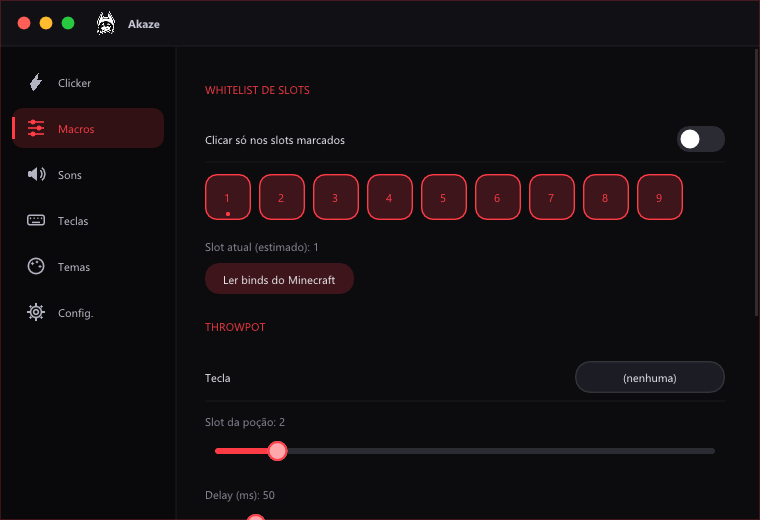
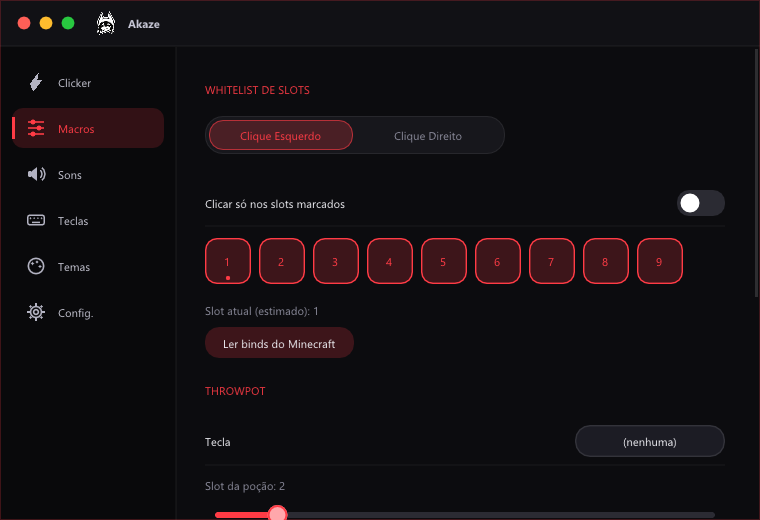
Site: Akaze 1.2.0 (separate left/right settings), new screenshots

diff --git a/index.html b/index.html
@@ -329,7 +329,7 @@
     <p class="lead" data-i18n="sc.lead">The real program, straight from the current version. Pick a page.</p>
     <div class="viewer">
       <div class="tabs" role="tablist" aria-label="Screenshots">
-        <button role="tab" aria-selected="true" data-shot="clicker" data-alt="Clicker page"><b data-i18n="sc.t1">Clicker</b><span data-i18n="sc.t1d">Left and right CPS, Auto Click, Jitter, Inventory and target window.</span></button>
+        <button role="tab" aria-selected="true" data-shot="clicker" data-alt="Clicker page"><b data-i18n="sc.t1">Clicker</b><span data-i18n="sc.t1d">Separate settings for left and right: CPS, Auto Click, Inventory, sound and target window. Jitter on the left.</span></button>
         <button role="tab" aria-selected="false" data-shot="macros" data-alt="Macros page"><b data-i18n="sc.t2">Macros</b><span data-i18n="sc.t2d">Slot whitelist, Throwpot and W-Tap.</span></button>
         <button role="tab" aria-selected="false" data-shot="sounds" data-alt="Sounds page"><b data-i18n="sc.t3">Sounds</b><span data-i18n="sc.t3d">Pick one of 12 click sounds and preview it.</span></button>
         <button role="tab" aria-selected="false" data-shot="binds" data-alt="Binds page"><b data-i18n="sc.t4">Binds</b><span data-i18n="sc.t4d">Set your arm keys and the Throwpot key.</span></button>
@@ -464,12 +464,12 @@
 <script>
 (function(){
   /* ---------- release info (fallback values; refreshed from the GitHub API) ---------- */
[2 lines of base64/hex data omitted]
   function setAll(sel,v){ document.querySelectorAll(sel).forEach(function(e){ e.textContent=v; }); }
   function setId(id,v){ var e=document.getElementById(id); if(e) e.textContent=v; }
   var lang = "en";
   function fmtDate(iso){ try{ return new Date(iso).toLocaleDateString(lang==="pt"?"pt-BR":"en-US",{year:"numeric",month:"short",day:"numeric"}); }catch(e){ return iso; } }
-  var rel = { iso: "2026-10-15T00:53:19Z" };
+  var rel = { iso: "2026-10-15T01:33:00Z" };
   function paintRelease(){
     setAll(".v-ver", fb.ver); setAll(".v-size", fb.size);
     setAll(".v-date", rel.iso ? fmtDate(rel.iso) : fb.date);
@@ -543,7 +543,7 @@
     "f.7h":"Sons de clique","f.7p":"8 sons embutidos (Default, GPro, G303, G502, HP, Microsoft, Old…) e qualquer <code>.wav</code> que você colocar na pasta <code>sounds</code>.",
     "f.8h":"Suas cores","f.8p":"Seletor de cor livre, oito predefinições e modo Rainbow. Tudo é salvo automaticamente.",
     "sc.eyebrow":"Imagens","sc.h2":"Veja antes de baixar.","sc.lead":"O programa de verdade, da versão atual. Escolha uma página.",
-    "sc.t1":"Clicker","sc.t1d":"CPS esquerdo e direito, Clique Automático, Jitter, Inventory e janela alvo.","sc.t2":"Macros","sc.t2d":"Whitelist de slots, Throwpot e W-Tap.","sc.t3":"Sons","sc.t3d":"Escolha entre 12 sons de clique e ouça a prévia.","sc.t4":"Teclas","sc.t4d":"Defina as teclas de armar e a do Throwpot.","sc.t5":"Temas","sc.t5d":"Cores de destaque, cor personalizada e Rainbow.","sc.t6":"Config.","sc.t6d":"Idioma, sempre no topo e restaurar padrões.",
+    "sc.t1":"Clicker","sc.t1d":"Configurações separadas para esquerdo e direito: CPS, Clique Automático, Inventory, som e janela alvo. Jitter no esquerdo.","sc.t2":"Macros","sc.t2d":"Whitelist de slots, Throwpot e W-Tap.","sc.t3":"Sons","sc.t3d":"Escolha entre 12 sons de clique e ouça a prévia.","sc.t4":"Teclas","sc.t4d":"Defina as teclas de armar e a do Throwpot.","sc.t5":"Temas","sc.t5d":"Cores de destaque, cor personalizada e Rainbow.","sc.t6":"Config.","sc.t6d":"Idioma, sempre no topo e restaurar padrões.",
     "br.eyebrow":"Made in Brazil","br.h2":"Feito por um brasileiro.",
     "br.p1":"O Akaze é escrito e mantido por <b>Gazake</b>, um desenvolvedor independente do <b>Brasil</b>. Ele nasceu como um projeto pessoal para fazer um autoclicker limpo e legível. A ideia era simples: fazer um que faz exatamente o que diz, e mais nada.",
     "br.p2":"Cada função foi escrita do zero, e o programa só usa recursos padrão do Windows. Se você fala português, toque na bandeira <b>PT</b> no topo da página para ler tudo no seu idioma.",
